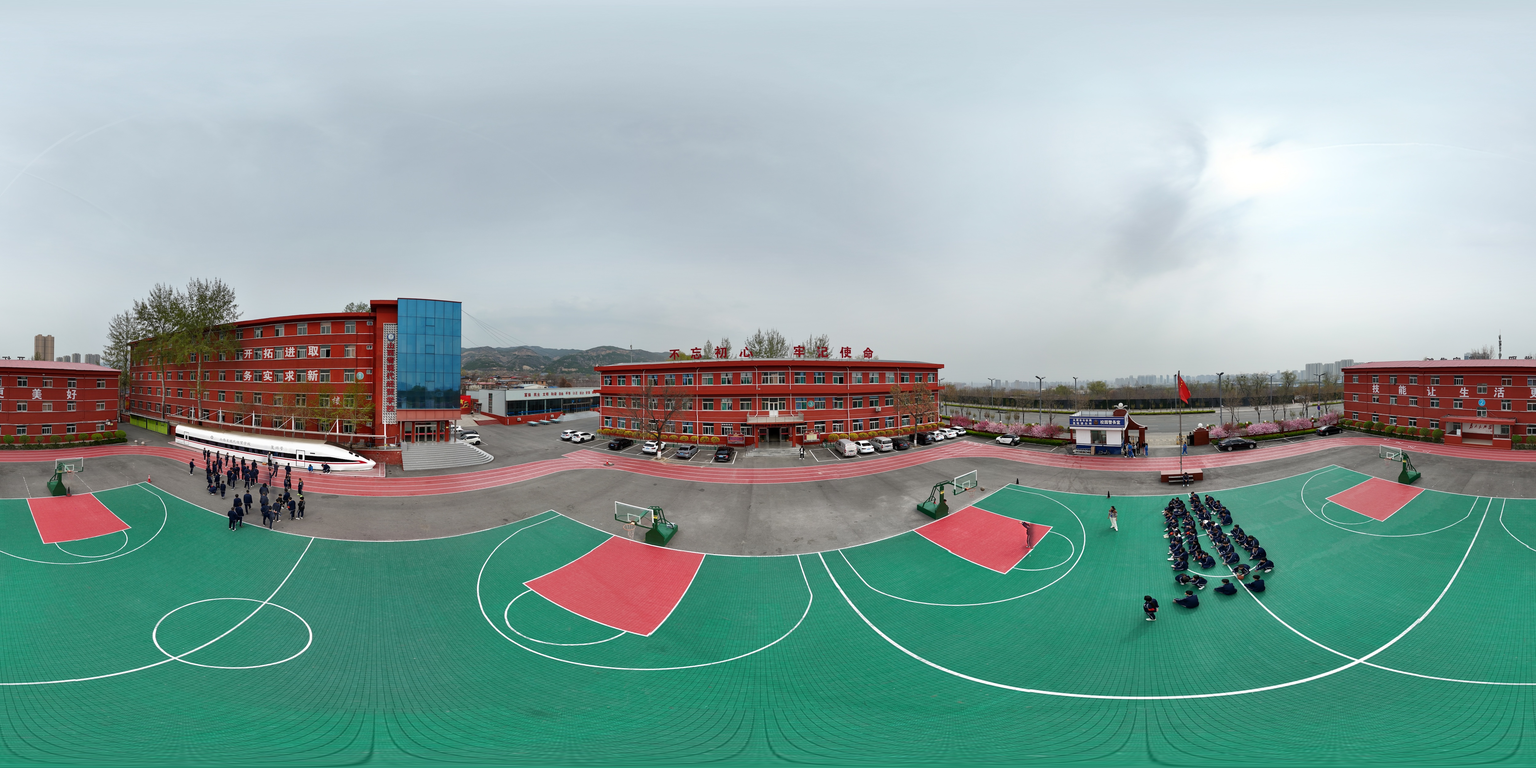
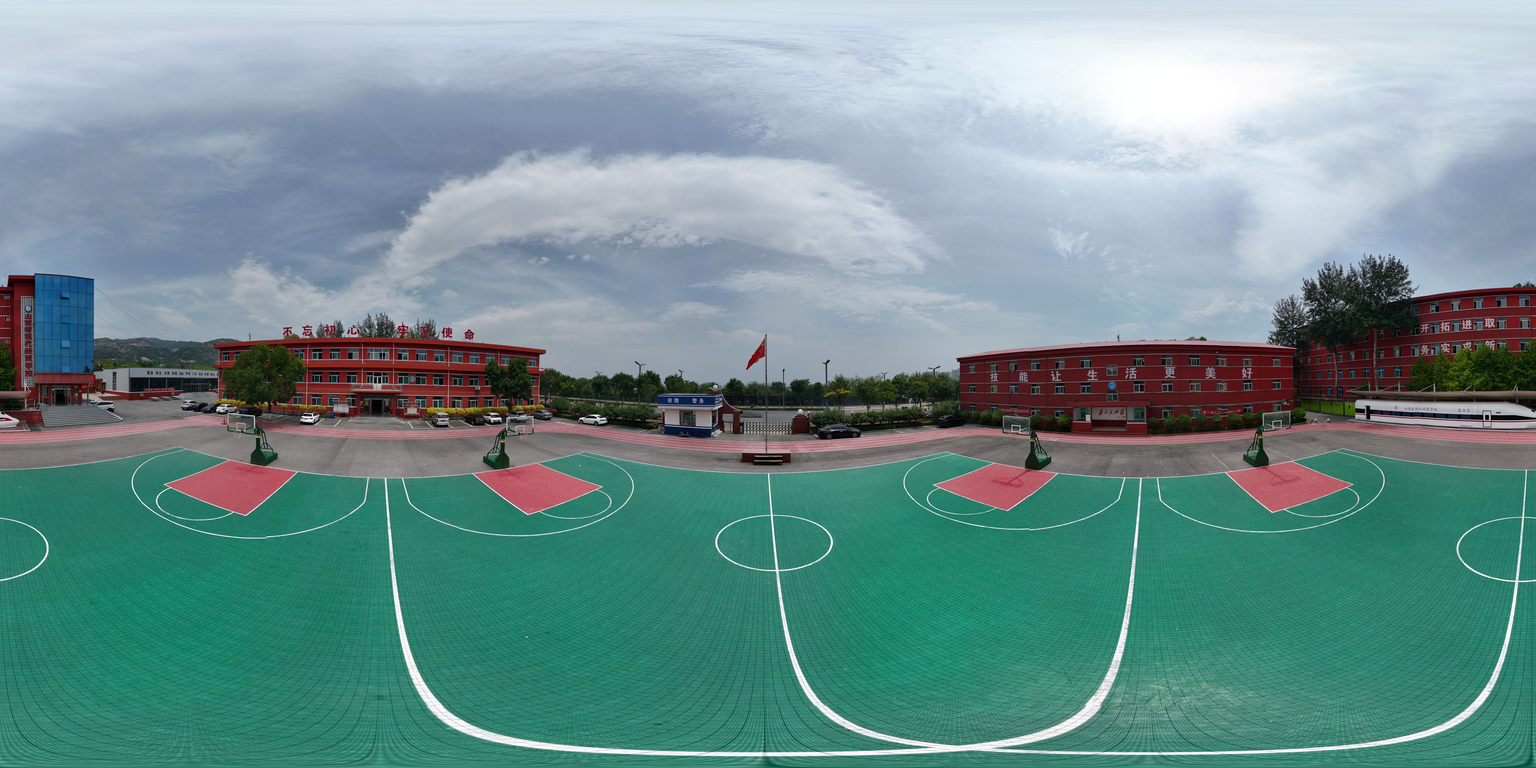
Add files via upload
2.0

diff --git a/3d/panorama.js b/3d/panorama.js
@@ -1,7 +1,7 @@
 class PanoramaViewer {
     constructor() {
         // 检查是否允许调试（只允许在本地文件访问时调试）
-        this.isDebugAllowed = window.location.protocol === 'file:';
+        this.isDebugAllowed = window.location.protocol === 'file';
         
         // 标记配置
         this.defaultMarkers = [
@@ -109,7 +109,7 @@ class PanoramaViewer {
                 image: './cj/2.jpg',
                 arrows: [
                     {
-                        position: { x: -450, y: -160, z: -15 },
+                        position: { x: 25, y: -160, z: 900 },
                         rotation: { x: 0.00, y: -2.77, z: -1.60 },
                         scale: {
                             x: 1.00,
@@ -125,8 +125,8 @@ class PanoramaViewer {
                         }
                     },
                     {
-                        position: { x: -280, y: -145, z: 335 },
-                        rotation: { x: -0.10, y: 3.15, z: 3.80 },
+                        position: { x: 710, y: -145, z: 605 },
+                        rotation: { x: 0.10, y: 3.15, z: 3.80 },
                         scale: {
                             x: 0.90,
                             y: 1.00,
@@ -141,8 +141,8 @@ class PanoramaViewer {
                         }
                     },
                     {
-                        position: { x: -5, y: -165, z: -440 },
-                        rotation: { x: 0.10, y: 3.15, z: 0.00 },
+                        position: { x: -330, y: -165, z: -5 },
+                        rotation: { x: 0.10, y: 3.15, z: -1.60 },
                         scale: {
                             x: 0.70,
                             y: 0.80,
@@ -157,11 +157,11 @@ class PanoramaViewer {
                         }
                     },
                     {
-                        position: { x: 385, y: -120, z: -110 },
+                        position: { x: -95, y: -120, z: -455 },
                         rotation: { 
-                            x: 0.10,
-                            y: -0.33,
-                            z: 4.80
+                            x: 0.20,
+                            y: 0.07,
+                            z: 6.40
                         },
                         scale: {
                             x: 0.80,
@@ -177,12 +177,12 @@ class PanoramaViewer {
                         }
                     },
                     {
-                        position: { x: 405, y: -55, z: 280 },
-                        rotation: { x: 1.50, y: -1.35, z: -0.20 },
+                        position: { x: 260, y: -5, z: -300 },
+                        rotation: { x: 1.50, y: -0.85, z: -6.30 },
                         scale: {
-                            x: 1.00,
-                            y: 0.30,
-                            z: 1.00
+                            x: 0.90,
+                            y: 0.50,
+                            z: 0.90
                         },
                         text: '快递柜',
                         target: 'scene2',
@@ -191,9 +191,9 @@ class PanoramaViewer {
                             pc: 255,
                             mobile: 100
                         }
-                    }
-                ]
-            },
+                    },
+             ]
+         },
             'scene3': {//教学楼
                 image: './cj/3.jpg',
                 arrows: [
@@ -205,8 +205,8 @@ class PanoramaViewer {
                             y: 1.00,
                             z: 1.00
                         },
-                        text: '招办',
-                        target: 'scene2',
+                        text: '会议室',
+                        target: 'scene16',
                         arrowStyle: '1',  // 使用 1.png
                         fontSize: {  // 添加字体大小配置
                             pc: 255,
@@ -398,11 +398,11 @@ class PanoramaViewer {
                 image: './cj/7.jpg',
                 arrows: [
                     {
-                        position: { x: -280, y: -120, z:-145 },
+                        position: { x: 380, y: -110, z:245 },
                         rotation: { 
-                            x: 0.10,
-                            y: 0.17,
-                            z: 7.80
+                            x: -0.20,
+                            y: -0.23,
+                            z: 11.00
                         },
                         scale: {
                             x: 1.00,
@@ -418,11 +418,11 @@ class PanoramaViewer {
                         }
                     },
                     {
-                        position: { x: -290, y: -120, z:70 },
+                        position: { x: 455, y: -120, z:-130 },
                         rotation: { 
                             x: -0.10,
-                            y: 0.17,
-                            z: 1.60,
+                            y: -0.43,
+                            z: 4.80,
                         },
                         scale: {
                             x: 0.80,
@@ -438,11 +438,11 @@ class PanoramaViewer {
                         }
                     },
                     {
-                        position: { x: -360, y: -155, z:260 },
+                        position: { x: 350, y: -100, z:-295 },
                         rotation: { 
-                            x: -0.20,
-                            y: 0.17,
-                            z: 1.70
+                            x: 0.20,
+                            y: -3.43,
+                            z: 1.30
                         },
                         scale: {
                             x: 1.00,
@@ -458,11 +458,11 @@ class PanoramaViewer {
                         }
                     },
                     {
-                        position: { x: 345, y: -175, z:20 },
+                        position: { x: -465, y: -145, z:75 },
                         rotation: { 
-                            x: -0.10,
-                            y: -0.23,
-                            z: 4.70
+                            x: 0.00,
+                            y: 0.27,
+                            z: 7.90
                         },
                         scale: {
                             x: 1.00,
@@ -478,16 +478,16 @@ class PanoramaViewer {
                         }
                     },
                     {
-                        position: { x: 300, y: -175, z:325 },
+                        position: { x: -310, y: -105, z: -315 },
                         rotation: { 
-                            x: -0.20,
-                            y: -0.23,
-                            z: 3.20
+                            x: 5.40,
+                            y: 37.27,
+                            z: 10.30
                         },
                         scale: {
-                            x: 1.00,
-                            y: 1.00,
-                            z: 1.00
+                            x: 1.20,
+                            y: 1.20,
+                            z: 1.20
                         },
                         text: '前往2区',
                         target: 'scene11',
@@ -668,10 +668,84 @@ class PanoramaViewer {
                         }
                     }
                 ]
-            }
-        };
-        this.currentScene = 'scene1';
+            },
+			'scene14':{//宿舍
+				image: './cj/14.jpg',
+				arrows:[
+					{
+					position: { x: 185, y: -160, z: -75 },
+					rotation: { x: 0.00, y : -3.27, z: -4.70},
+					scale: {
+					    x: 1.00,
+					    y: 0.80,
+					    z: 1.00
+					},
+					text: '操场',
+					target: 'scene2',
+					arrowStyle: '1',  // 使用 1.png
+					fontSize: {  // 添加字体大小配置
+					    pc: 255,
+					    mobile: 100
+					}
+					
+				},
+			]
+		},
+		'scene15': {//机房
+		    image: './cj/15.jpg',
+		    arrows: [
+		        {
+		            position: { x: 310 , y: -210, z: 250 },
+		            rotation: { 
+		                x: 0.00,
+		                y: -0.23,
+		                z: 3.70
+		            },
+		            scale: {
+		                x: 1.30,
+		                y: 1.80,
+		                z: 1.30
+		            },
+		            text: '实训区',
+		            target: 'scene7',
+		            arrowStyle: '1',  // 使用 1.png
+		            fontSize: {  // 添加字体大小配置
+		                pc: 255,
+		                mobile: 100
+		            }
+		        },
+		    ]
+		},
+		'scene16': {//会议室
+		    image: './cj/16.jpg',
+		    arrows: [
+		        {
+		            position: { x:-290, y: -210, z: 0 },
+		            rotation: { 
+		                x: -0.20,
+		                y: -0.03,
+		                z: 1.10
+					
+		            },
+		            scale: {
+		                x: 1.30,
+		                y: 1.80,
+		                z: 1.30
+		            },
+		            text: '教学楼',
+		            target: 'scene3',
+		            arrowStyle: '1',  // 使用 1.png
+		            fontSize: {  // 添加字体大小配置
+		                pc: 255,
+		                mobile: 100
+					}
+				},
+			]
+        }
+	};
+		this.currentScene = 'scene1';
     }
+
 
     // 开始预加载
     startPreloading() {
@@ -947,7 +1021,10 @@ class PanoramaViewer {
             'scene10': '汽修实训室',
             'scene11': '实训室2区',
             'scene12':'中餐实训室',
-            'scene13':'上操场'
+            'scene13':'上操场',
+			'scene14':'宿舍',
+			'scene15':'机房',
+			'scene16':'会议室'
         };
 
         // 为每个场景创建缩略图
@@ -2085,6 +2162,7 @@ class PanoramaViewer {
                     <option value="scene11">实训室2区</option>
                     <option value="scene9">中餐实训室</option>
                     <option value="scene9">上操场</option>
+					<option value="scene14">宿舍</option>
                 </select>
             </div>
             <div style="display: flex; gap: 10px;">
